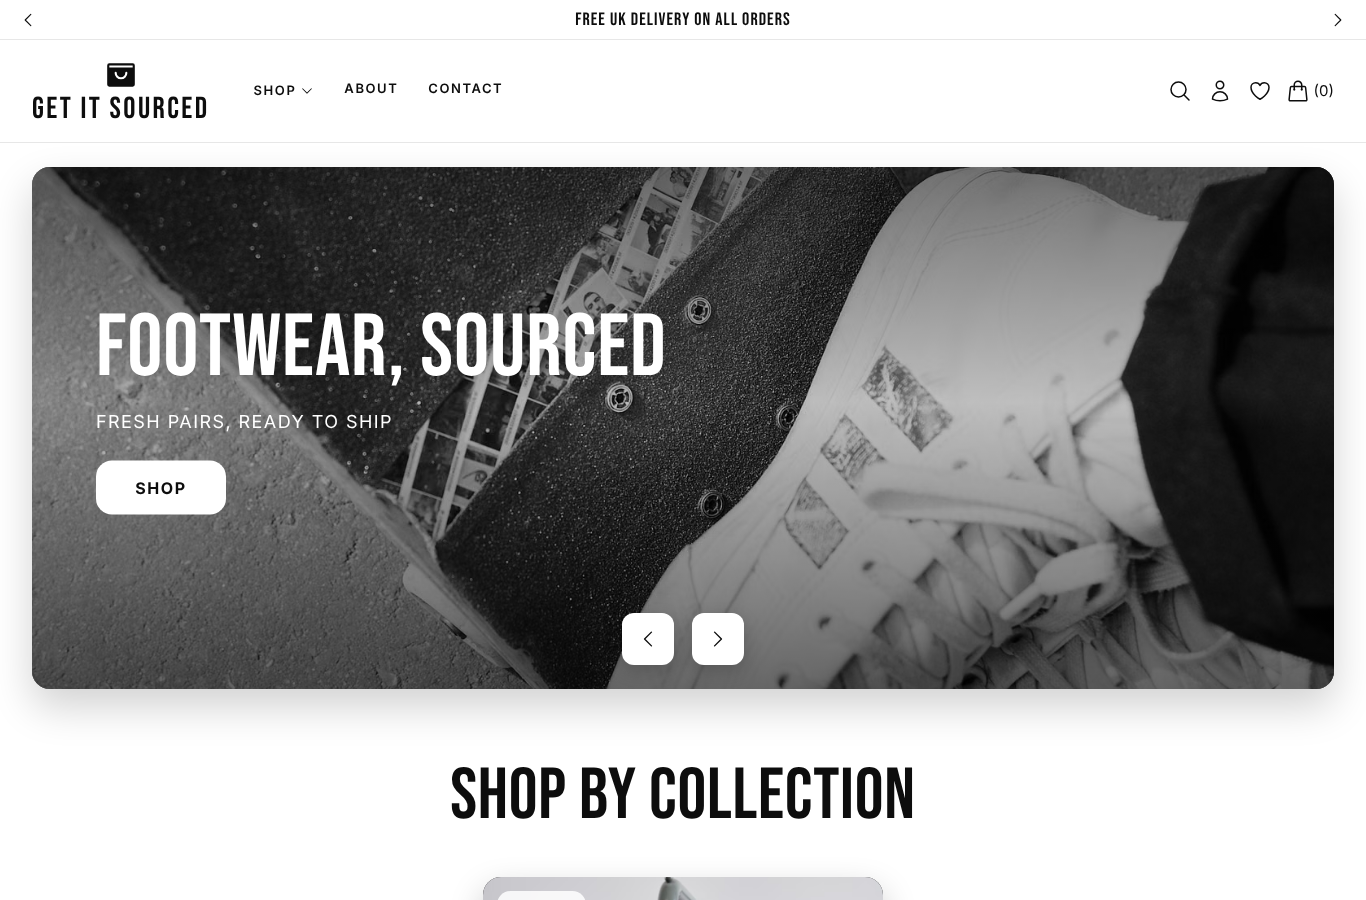
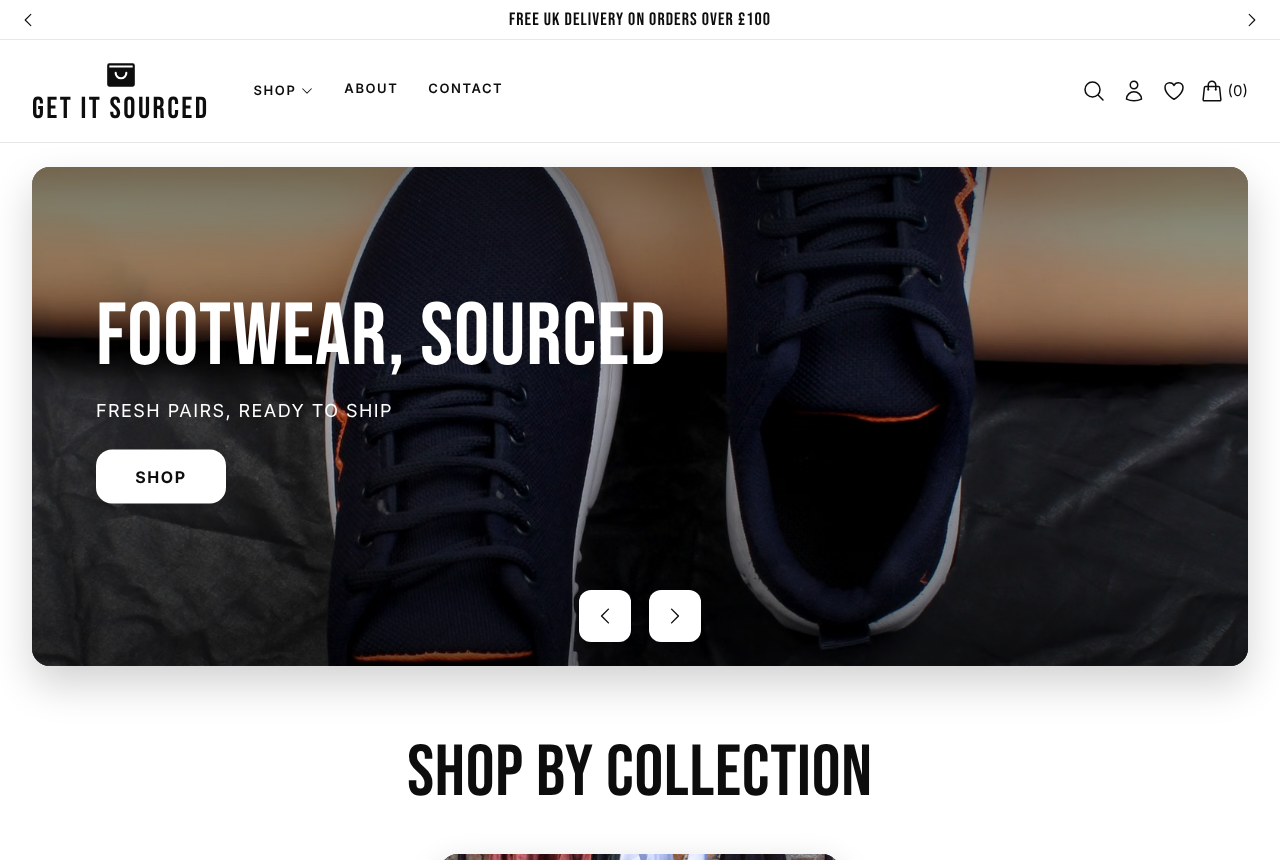
Use product-only streetwear photos on the home page
At the owner's request the home page photos now show only clothes and
shoes, no people, closer to the reference site's streetwear mood:

- Hero: navy trainers on black paper, a black puffer on a studio rail,
  stacked joggers, and black-and-white shelves of folded tees.
- Collection cards: a clothes rail against brick (Clothing) and a black
  backpack on a street (Accessories); footwear and fragrance unchanged.
- Sourcing section: a minimal rail with hoodies and packed boxes.

All are Pexels-licensed and were checked at full size for brand logos;
the backpack's maker's patch was blanked out, so that one is served from
public/images/home/. Also fixes "1 items" on collection cards and the
bag icon label.

Claude-Session: https://claude.ai/code/session_01MiXNvcNMLDu5eBSVA8g4Bc

diff --git a/scrollme/src/data.js b/scrollme/src/data.js
@@ -11,7 +11,8 @@ export const storeConfig = {
     { icon: 'delivery', text: 'Free UK delivery over £100' },
     { icon: 'returns', text: '30-day returns' },
   ],
-  // Home page hero. Photos: Pexels licence (free for commercial use), no visible brand logos.
+  // Home page hero. Photos: Pexels licence (free for commercial use), product only (no
+  // people) and no visible brand logos.
   heroSlides: [
     {
       id: 'footwear',
@@ -19,8 +20,8 @@ export const storeConfig = {
       subtitle: 'Fresh pairs, ready to ship',
       cta: 'Shop',
       link: '/collections/footwear',
-      img: pexels(7519524),
-      position: 'center 60%',
+      img: pexels(19577865),
+      position: 'center 55%',
     },
     {
       id: 'outerwear',
@@ -28,8 +29,8 @@ export const storeConfig = {
       subtitle: 'Puffers, jackets and layers',
       cta: 'Shop',
       link: '/collections/clothing?category=jackets',
-      img: pexels(19426409),
-      position: 'center 35%',
+      img: pexels(6045058),
+      position: 'center 45%',
     },
     {
       id: 'hoodies',
@@ -37,8 +38,8 @@ export const storeConfig = {
       subtitle: 'Everyday staples',
       cta: 'Shop',
       link: '/collections/clothing?category=sweatshirts',
-      img: pexels(7026775),
-      position: 'center 30%',
+      img: pexels(31961168),
+      position: 'center 40%',
     },
     {
       id: 'all',
@@ -46,8 +47,8 @@ export const storeConfig = {
       subtitle: 'Thousands of pieces in one place',
       cta: 'Shop all',
       link: '/products',
-      img: pexels(5480696),
-      position: 'center 25%',
+      img: pexels(581339),
+      position: 'center',
     },
   ],
   // Home page, one entry per collection in display order: a card in "Shop by
@@ -56,7 +57,7 @@ export const storeConfig = {
   homeCollections: [
     {
       collection: 'clothing',
-      img: pexels(3812433, 900),
+      img: pexels(2249249, 900),
       shortcuts: [
         { label: 'Hoodies & sweats', category: 'sweatshirts' },
         { label: 'Jackets', category: 'jackets' },
@@ -77,7 +78,8 @@ export const storeConfig = {
     },
     {
       collection: 'accessories',
-      img: pexels(11817096, 900),
+      // Pexels 16359299, with the maker's name removed from the patch.
+      img: '/images/home/accessories-backpack.jpg',
       shortcuts: [
         { label: 'Bags', category: 'backpacks' },
         { label: 'Watches', category: 'watches' },
@@ -102,7 +104,7 @@ export const storeConfig = {
     text: "Tell us the piece, size and budget you're after and we'll look for it for you.",
     cta: 'Send a request',
     link: '/contact-us',
-    img: pexels(7679444, 1400),
+    img: pexels(9594676, 1400),
   },
   location: 'United Kingdom',
   contactEmail: '',

diff --git a/scrollme/src/components/home/Coverflow.jsx b/scrollme/src/components/home/Coverflow.jsx
@@ -116,6 +116,9 @@ const offsetOf = (i, active, n) => {
 
 // "Coverflow" carousel: the active card in front, neighbours smaller behind.
 // Short lists are repeated (inert copies) so both sides stay filled.
+// e.g. 1 item, 1,240 items
+const itemCount = (n) => `${n.toLocaleString()} ${n === 1 ? 'item' : 'items'}`;
+
 const Coverflow = ({ items, label }) => {
   const [{ active, previous }, setState] = useState({ active: 0, previous: 0 });
   const pointer = useRef({ x: 0, down: false, swiped: false });
@@ -167,7 +170,7 @@ const Coverflow = ({ items, label }) => {
             key={`${item.id}-${i}`}
             to={item.link}
             draggable={false}
-            aria-label={item.count ? `${item.title}, ${item.count.toLocaleString()} items` : item.title}
+            aria-label={item.count ? `${item.title}, ${itemCount(item.count)}` : item.title}
             aria-hidden={copy || undefined}
             tabIndex={copy || far ? -1 : undefined}
             onFocus={() => !pointer.current.down && d !== 0 && goTo(i)}
@@ -181,7 +184,7 @@ const Coverflow = ({ items, label }) => {
             }}
           >
             <img src={item.img} alt='' loading='lazy' style={item.position ? { objectPosition: item.position } : undefined} />
-            {item.count > 0 && <Chip>{item.count.toLocaleString()} items</Chip>}
+            {item.count > 0 && <Chip>{itemCount(item.count)}</Chip>}
             <Footer>
               <Title>{item.title}</Title>
               <Pill aria-hidden='true'>SHOP</Pill>

diff --git a/scrollme/src/components/Navbar.jsx b/scrollme/src/components/Navbar.jsx
@@ -316,7 +316,7 @@ const Navbar = () => {
   };
 
   const cartLink = (
-    <IconLink to='/cart' aria-label={`Cart, ${totalQuantity || 0} items`}>
+    <IconLink to='/cart' aria-label={`Cart, ${totalQuantity || 0} ${totalQuantity === 1 ? 'item' : 'items'}`}>
       <HiOutlineShoppingBag size={24} aria-hidden='true' />
       <CartCount aria-hidden='true'>({totalQuantity || 0})</CartCount>
     </IconLink>

diff --git a/scrollme/docs/RELEASE_CANDIDATE.md b/scrollme/docs/RELEASE_CANDIDATE.md
@@ -51,7 +51,7 @@ Branch `claude/scrollme-ecommerce-phases-cwocsl`. Baseline: the original code im
 
 **Redesigned at the owner's request (23 Oct 2026)** in a monochrome streetwear style modelled on a reference site the owner supplied: black-and-white palette, Bebas Neue display headings with Inter body text, rotating announcement bar, a header with the bag-mark logo on the left, a *Shop* menu and icons on the right (phone: menu drawer), a rounded dark hero carousel, a *Shop by collection* coverflow slider with one card per collection (swipe, arrows or keyboard; live item counts), then a separate swipeable product row for each collection (Clothing, Footwear, Accessories, Fragrances) with shortcut links to its main categories and a progress bar, an image-and-text *Can't find it? We'll source it* section, rounded FAQ cards, and a footer with a scrolling brand banner beside the newsletter sign-up. Only the layout and style were followed; the logo, photos and copy are the store's own. The reference site's testimonials, reviews, mystery boxes and 10 %-off pop-up were deliberately not copied: they would be untrue for this store until it has real reviews and offers.
 
-Photos are from Pexels (free commercial licence) and were checked at full size for visible brand logos: 7519524, 19426409, 7026775, 5480696 (hero); 3812433, 7193634, 11817096, 34036480 (collection cards); 7679444 (sourcing section). Cards, slides and the sourcing section are configured in `storeConfig` (`src/data.js`). Screenshots: [screenshots/](screenshots/).
+Photos are from Pexels (free commercial licence). At the owner's request (24 Oct 2026) they show only products, no people, in a streetwear mood. Each was checked at full size for brand logos and for where it was taken (one candidate pile of shoes turned out to be from the Auschwitz memorial and was rejected): 19577865, 6045058, 31961168, 581339 (hero); 2249249, 7193634, 16359299, 34036480 (collection cards; the backpack's maker's patch was blanked out, so it is served from `public/images/home/`); 9594676 (sourcing section). Photos of the shop's own stock can replace any of them in `storeConfig`. Cards, slides and the sourcing section are configured in `storeConfig` (`src/data.js`). Screenshots: [screenshots/](screenshots/).
 
 The Phase 2 comparison below describes the restored original design that preceded the redesign.
 
